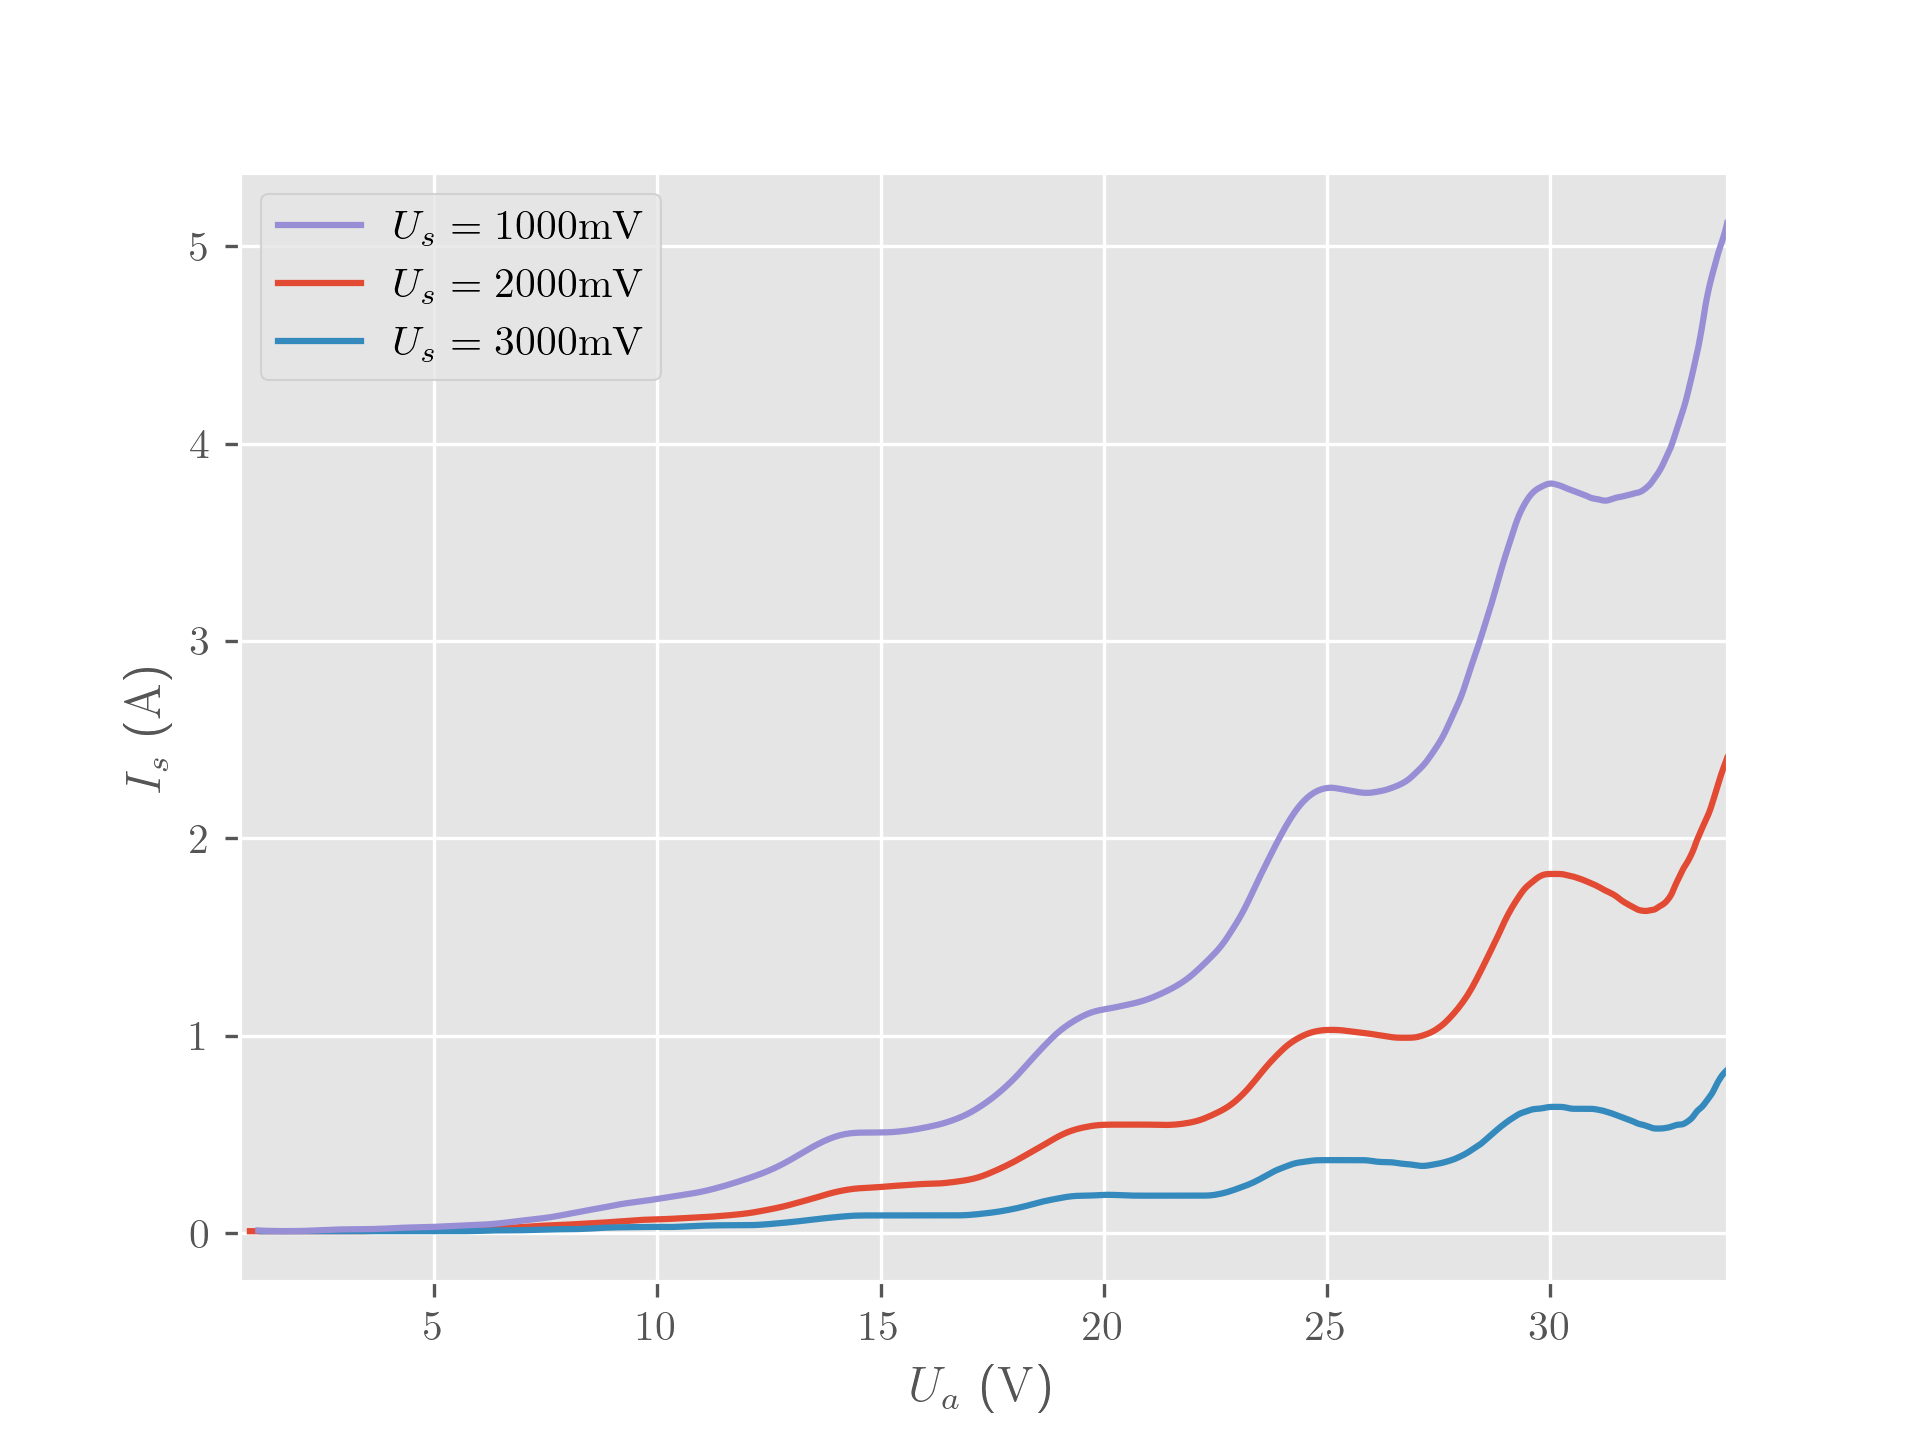
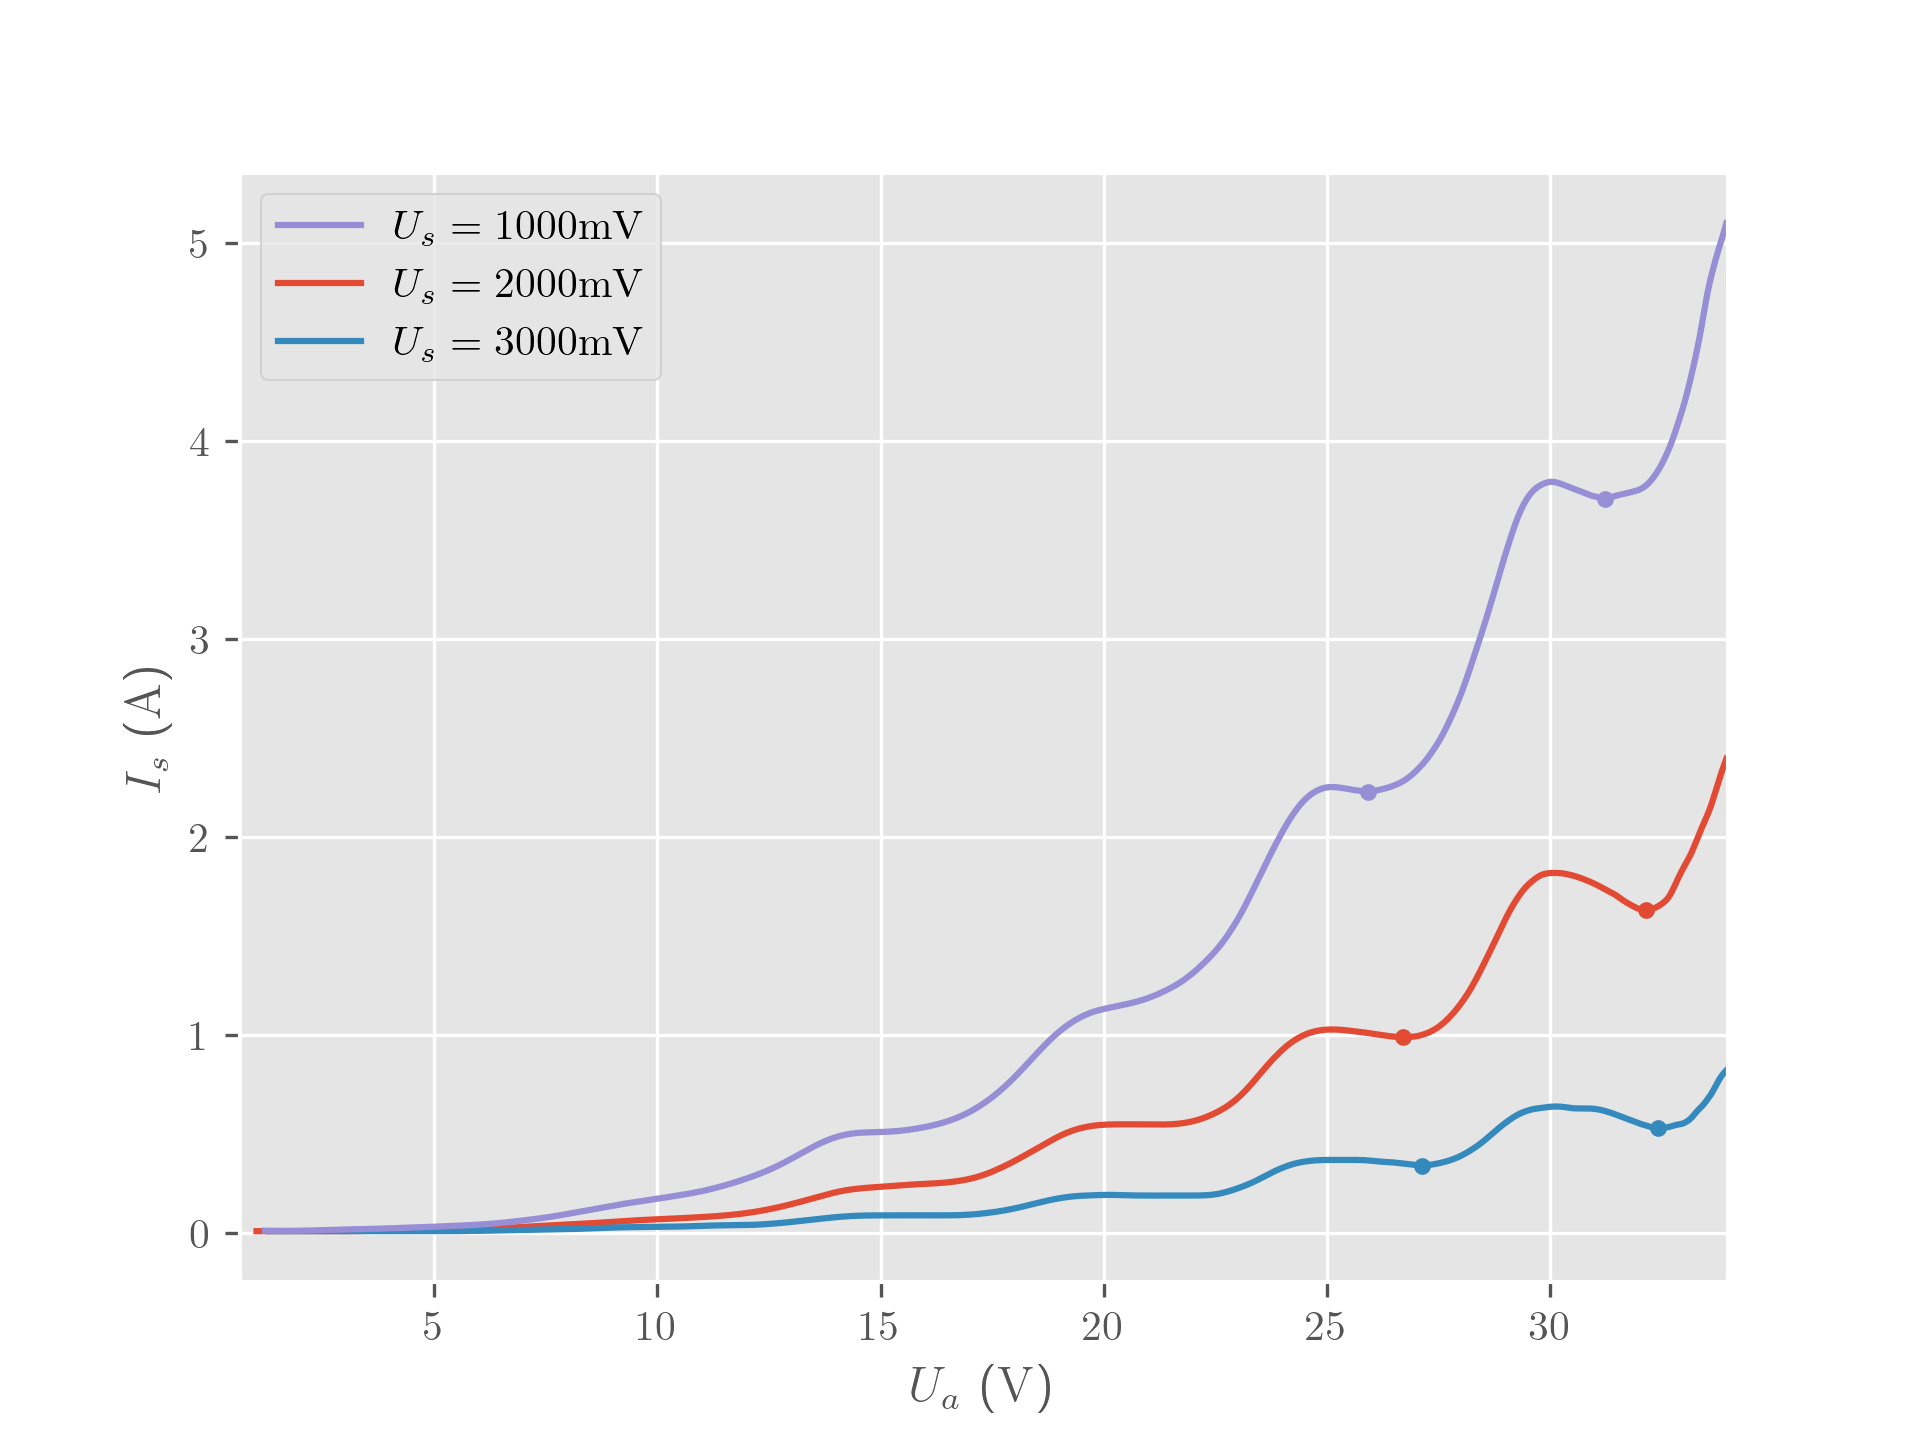
Adding current minima plot

Changed region(s): [[0.8438, 0.2812, 0.875, 0.3125], [0.0938, 0.1562, 0.125, 0.1875]]

diff --git a/plot2.py b/plot2.py
@@ -12,27 +12,41 @@ plt.rcParams.update({
 
 plt.style.use('ggplot')
 
+# importing files into dataframes
 files = glob.glob('data/T_15*')
 voltages = [int(re.search('VR_(.+?)mV', file).group(1)) for file in files]
 dfs = [pd.read_csv(file, sep='\s+', skiprows=(0, 1), index_col=0, decimal=',')
        for file in files]
 
+# relabeling columns and index
 for df in dfs:
     df.columns = ['I', 'U']
     df.index.names = ['Time']
     df.loc[:, 'U'] *= 2
 
+# plot of current in terms of drive voltage
 fig, ax = plt.subplots()
 
 ax.set(xlim=(dfs[0].iloc[0, 1], dfs[0].iloc[-1, 1]),
        xlabel=r'$ U_a $ (\si{\volt})',
        ylabel=r'$ I_s $ (\si{\ampere})')
 
+minima_dfs = []
 for i in range(len(dfs)):
-    x = gaussian_filter1d(dfs[i].loc[:, 'U'], sigma=2)
-    y = gaussian_filter1d(dfs[i].loc[:, 'I'], sigma=2)
-    ax.plot(x, y, label=rf'$ U_s = {voltages[i]} \si{{\milli\volt}} $')
+    x = np.array(gaussian_filter1d(dfs[i].loc[:, 'U'], sigma=3))
+    y = np.array(gaussian_filter1d(dfs[i].loc[:, 'I'], sigma=3))
 
+    minima_indexes = (np.diff(np.sign(np.diff(y))) > 0).nonzero()[0][-2:] + 1
+    minima_df = dfs[i].iloc[minima_indexes, :]
+    minima_dfs.append(minima_df)
+
+    x_minima = minima_df.loc[:, 'U']
+    y_minima = minima_df.loc[:, 'I']
+
+    color = ax.plot(x_minima, y_minima, 'o', ms=3.0)[-1].get_color()
+    ax.plot(x, y, color=color, label=rf'$ U_s = {voltages[i]} \si{{\milli\volt}} $')
+
+# sorting legend labels by stop voltage value
 handles, labels = ax.get_legend_handles_labels()
 
 handles_labels_voltages = [[h, l, v] for h, l, v in zip(handles, labels, voltages)]
@@ -43,5 +57,23 @@ labels = [hv[1] for hv in handles_labels_voltages]
 
 ax.legend(handles, labels)
 
+# plot of current minima in terms of stop voltages
+fig_min, ax_min = plt.subplots()
+
+ax_min.set(xlabel=r'$ U_s $ (\si{\volt})',
+           ylabel=r'$ I_s $ (\si{\ampere})')
+
+current_mins = [[df.iloc[i, 0] for df in minima_dfs] for i in range(2)]
+
+for current_min in current_mins:
+    data = [[u, i] for u, i in zip(voltages, current_min)]
+    sorted_data = sorted(data, key=lambda list: list[0])
+
+    x = [data[0] for data in sorted_data]
+    y = [data[1] for data in sorted_data]
+
+    ax_min.plot(x, y, 'o-', ms=3.0)
+
 fig.savefig('plots/constant_temp.png', dpi=300)
+fig_min.savefig('plots/current_minima.png', dpi=300)
 plt.show()
